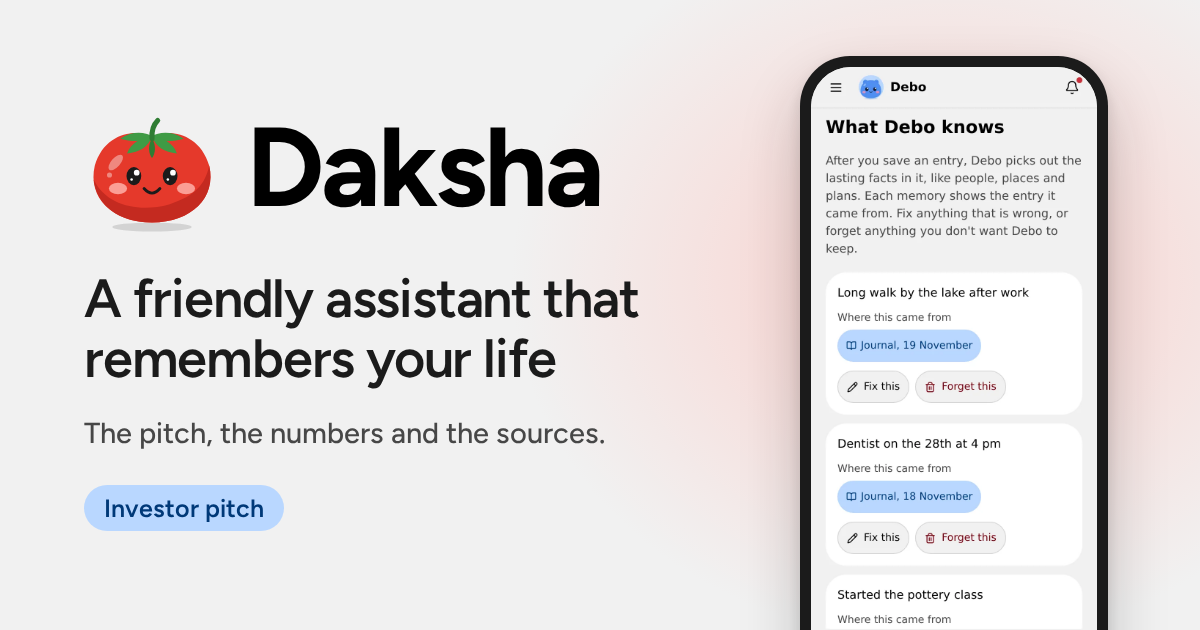
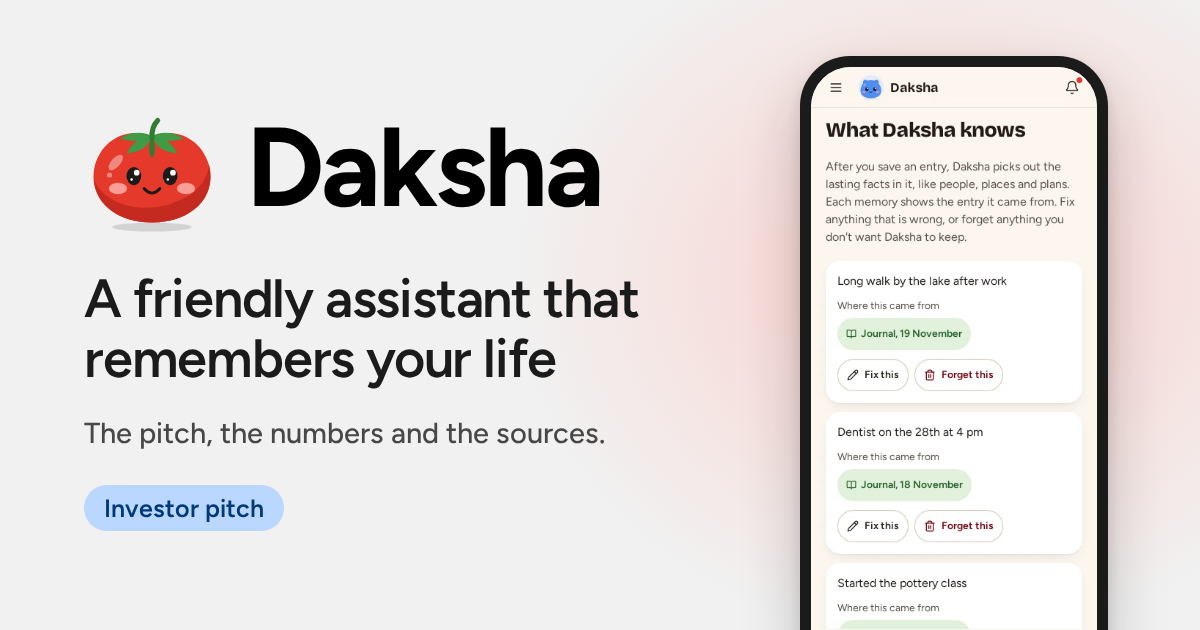
Rebuild the share pictures with the Daksha screenshot and ask for og.png?v=4

Changed region(s): [[0.6783, 0.4222, 0.8942, 1.0], [0.6783, 0.181, 0.8942, 0.4222], [0.7092, 0.1206, 0.8017, 0.1508]]

diff --git a/apps/site/src/app/layout.tsx b/apps/site/src/app/layout.tsx
@@ -16,7 +16,7 @@ const TITLE = `${BRAND}: a friendly assistant that remembers your life`;
 const DESCRIPTION = `Write things down or say them out loud. Ask ${BRAND} about your own life and see the source of every answer. You can see, fix, download and delete everything.`;
 
 // Made by scripts/og/build-og.mjs. The ?v= changes when the picture changes, so chat apps fetch it again.
-const OG_IMAGE = `${SITE_URL}/og.png?v=3`;
+const OG_IMAGE = `${SITE_URL}/og.png?v=4`;
 const OG_ALT = `${BRAND}, a small red tomato, next to a phone showing the app, and the words: a friendly assistant that remembers your life`;
 
 export const metadata: Metadata = {

diff --git a/apps/pitch/src/app/layout.tsx b/apps/pitch/src/app/layout.tsx
@@ -14,7 +14,7 @@ import { Providers } from "./providers";
 const PITCH_TITLE = "Daksha: investor pitch";
 const PITCH_DESCRIPTION = "The pitch, the numbers and the sources for Daksha, a friendly assistant that remembers your life.";
 // Made by scripts/og/build-og.mjs. The ?v= changes when the picture changes, so chat apps fetch it again.
-const OG_IMAGE = "https://pitch.daksha.life/og.png?v=3";
+const OG_IMAGE = "https://pitch.daksha.life/og.png?v=4";
 const OG_ALT =
   "Daksha, a small red tomato, next to a phone showing the app, with the words: a friendly assistant that remembers your life. Investor pitch.";
 

diff --git a/apps/web/src/app/layout.tsx b/apps/web/src/app/layout.tsx
@@ -8,7 +8,7 @@ const description =
   "Give Daksha your journals, voice notes, papers and photos. Ask about your own life and get answers that show where they came from. Being built now.";
 
 // Made by scripts/og/build-og.mjs. The ?v= changes when the picture changes, so chat apps fetch it again.
-const OG_IMAGE = "https://daksha.life/og.png?v=3";
+const OG_IMAGE = "https://daksha.life/og.png?v=4";
 const OG_ALT =
   "Daksha, a small red tomato, next to a phone showing the app, and the words: a friendly assistant that remembers your life";
 

diff --git a/apps/site/src/app/page.tsx b/apps/site/src/app/page.tsx
@@ -30,7 +30,7 @@ const JSON_LD = {
       operatingSystem: "Web, Android",
       description:
         "A friendly assistant that remembers your life. Write a journal or talk out loud, then ask about your own past and plans. Every answer shows its source.",
-      image: `${SITE_URL}/og.png?v=3`,
+      image: `${SITE_URL}/og.png?v=4`,
     },
     {
       "@type": "FAQPage",
